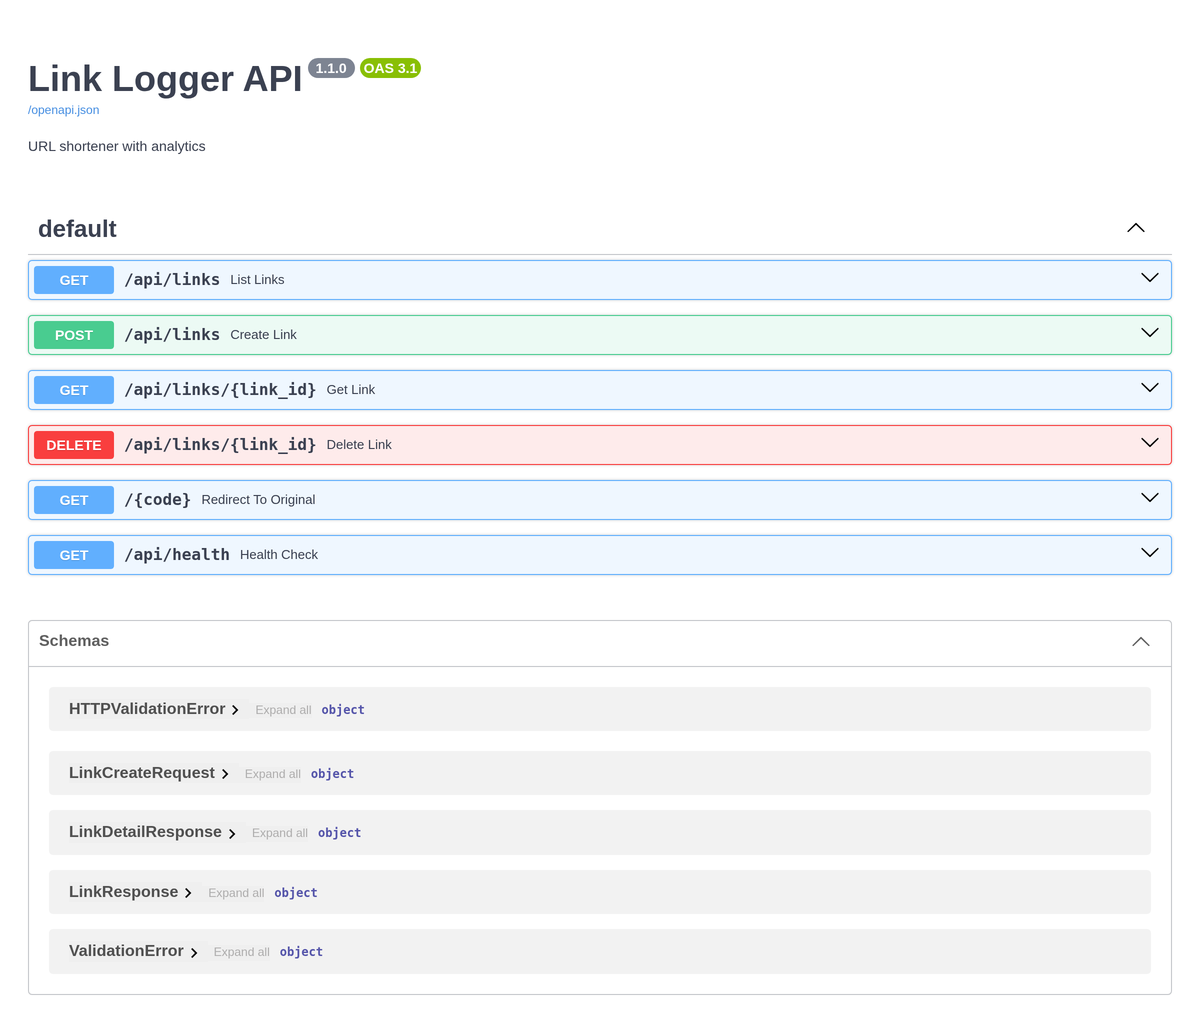
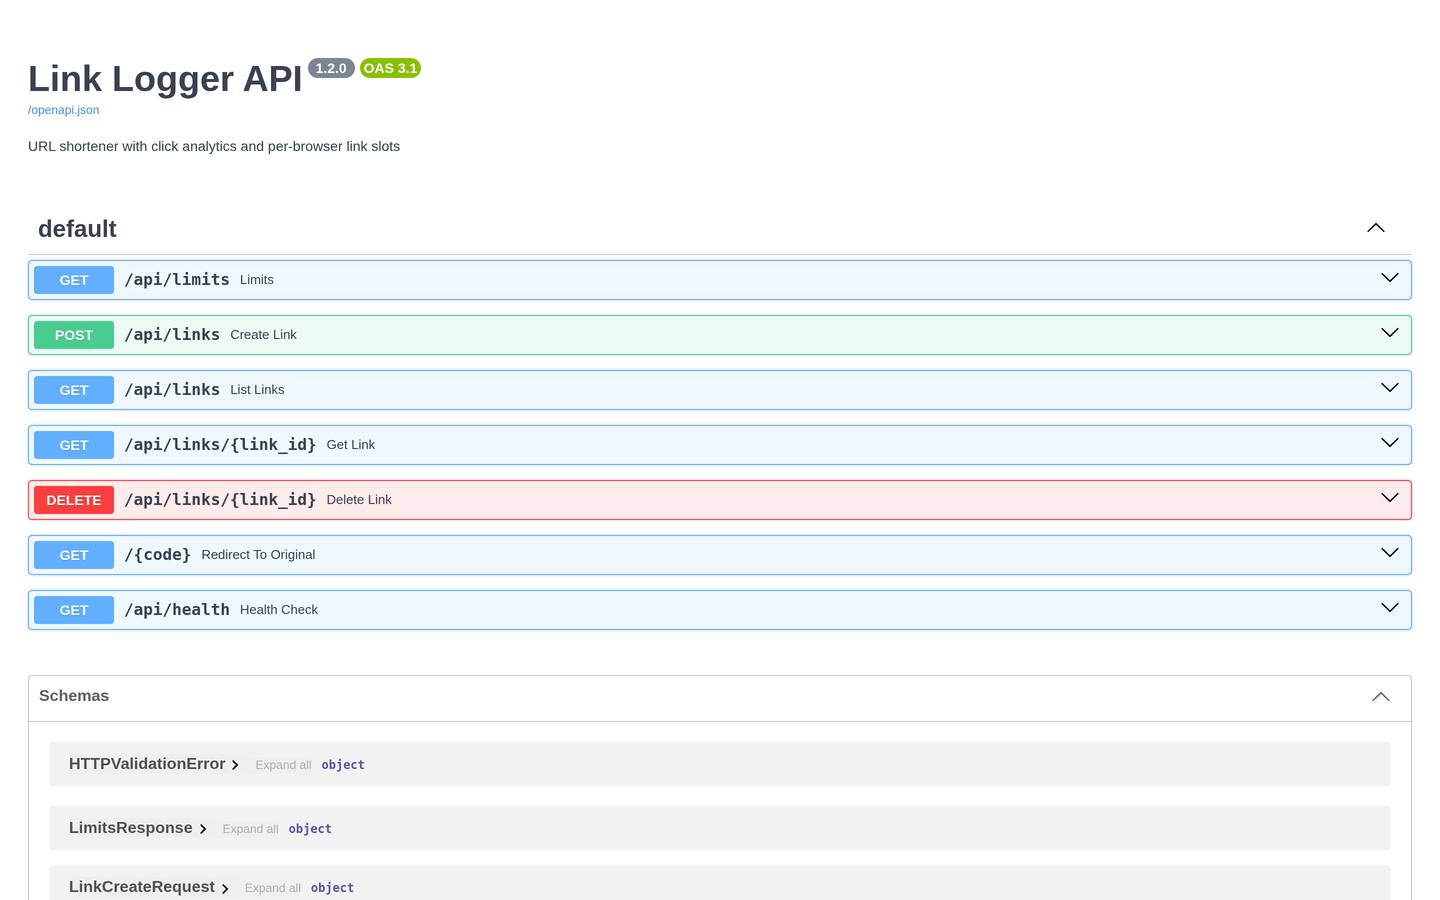
fix: atomic capacity admission, refreshed screenshots
Admission is part of the INSERT (count < budget OR the owner is at their cap), so two concurrent creates cannot take the last slot and a full owner can still replace one of their own links without growing the table. README screenshots regenerated for the copy icon, the Retention row and API 1.2.0.

diff --git a/backend/fastapi/main.py b/backend/fastapi/main.py
@@ -219,11 +219,6 @@ def purge_expired_everywhere() -> None:
         delete_links([row["id"] for row in expired])
 
 
-def at_capacity() -> bool:
-    total = store.execute("SELECT COUNT(*) AS count FROM links")[0][0]["count"]
-    return total >= MAX_TOTAL_LINKS
-
-
 def row_to_response(row: dict, base_url: str) -> LinkResponse:
     return LinkResponse(
         id=row["id"],
@@ -268,13 +263,6 @@ def limits():
 @app.post("/api/links", response_model=LinkCreatedResponse, status_code=201)
 def create_link(request: Request, payload: LinkCreateRequest, owner: OwnerDep):
     purge_expired_everywhere()
-    if at_capacity():
-        # Deleting a stranger's link to make room would be worse than refusing:
-        # the demo is full, and the caller can come back later.
-        raise HTTPException(
-            status_code=503,
-            detail="This demo is at capacity. Try again later.",
-        )
 
     if payload.custom_code:
         short_code = payload.custom_code
@@ -292,10 +280,26 @@ def create_link(request: Request, payload: LinkCreateRequest, owner: OwnerDep):
     created_at = utc_iso(now)
     expires_at = utc_iso(now + timedelta(days=LINK_TTL_DAYS))
     try:
+        # Admission is part of the insert, in one statement: a check followed by
+        # a separate INSERT lets two concurrent requests both take the last slot.
+        # A full owner is still allowed through — their own eviction below keeps
+        # the row count unchanged, so a replacement never needs extra storage.
         inserted = store.execute(
             "INSERT INTO links (original_url, short_code, created_at, expires_at, owner_token, clicks) "
-            "VALUES (?, ?, ?, ?, ?, 0) RETURNING id",
-            (str(payload.original_url), short_code, created_at, expires_at, owner),
+            "SELECT ?, ?, ?, ?, ?, 0 "
+            "WHERE (SELECT COUNT(*) FROM links) < ? "
+            "   OR (SELECT COUNT(*) FROM links WHERE owner_token = ?) >= ? "
+            "RETURNING id",
+            (
+                str(payload.original_url),
+                short_code,
+                created_at,
+                expires_at,
+                owner,
+                MAX_TOTAL_LINKS,
+                owner,
+                MAX_LINKS_PER_OWNER,
+            ),
         )[0]
     except (sqlite3.IntegrityError, StoreError) as exc:
         # Lost a race on UNIQUE(short_code): a custom code taken between the
@@ -304,6 +308,12 @@ def create_link(request: Request, payload: LinkCreateRequest, owner: OwnerDep):
         if is_unique_violation(exc):
             raise HTTPException(status_code=400, detail="Custom code already exists")
         raise
+
+    if not inserted:
+        raise HTTPException(
+            status_code=503,
+            detail="This demo is at capacity. Try again later.",
+        )
 
     evicted_code, evicted_count = evict_overflow(owner)
     base_url = public_base_url(request)

diff --git a/backend/fastapi/test_retention.py b/backend/fastapi/test_retention.py
@@ -202,3 +202,19 @@ def test_expired_rows_do_not_block_capacity(client, monkeypatch):
 
     fresh = create(client, token, code="cap003")
     assert fresh["short_code"] == "cap003", "the expired row should have freed the budget"
+
+
+def test_full_table_still_allows_a_storage_neutral_replacement(client, monkeypatch):
+    # An owner at their own cap replaces a link, so the row count does not grow.
+    # Refusing that would break the advertised ten-slot behaviour at capacity.
+    token = "token-replace-01"
+    for index in range(10):
+        create(client, token, code=f"rep{index:03d}")
+
+    total = client.get("/api/health").json()["links"]
+    monkeypatch.setattr(main, "MAX_TOTAL_LINKS", total)
+
+    replaced = create(client, token, code="rep999")
+
+    assert replaced["evicted_code"] is not None
+    assert client.get("/api/health").json()["links"] == total

diff --git a/README.md b/README.md
@@ -2,7 +2,7 @@
 
 # Link Logger
 
-A URL shortener with click analytics and honest retention — React (Vite) on the front, FastAPI and SQLite on the back.
+A URL shortener with click analytics and honest retention — React (Vite) on the front, FastAPI and SQLite/libSQL on the back.
 
 **Live demo:** https://link-logger-pink.vercel.app/ · **CI:** ![CI](https://github.com/FrozenProduction/link-logger/actions/workflows/test.yml/badge.svg)
 
